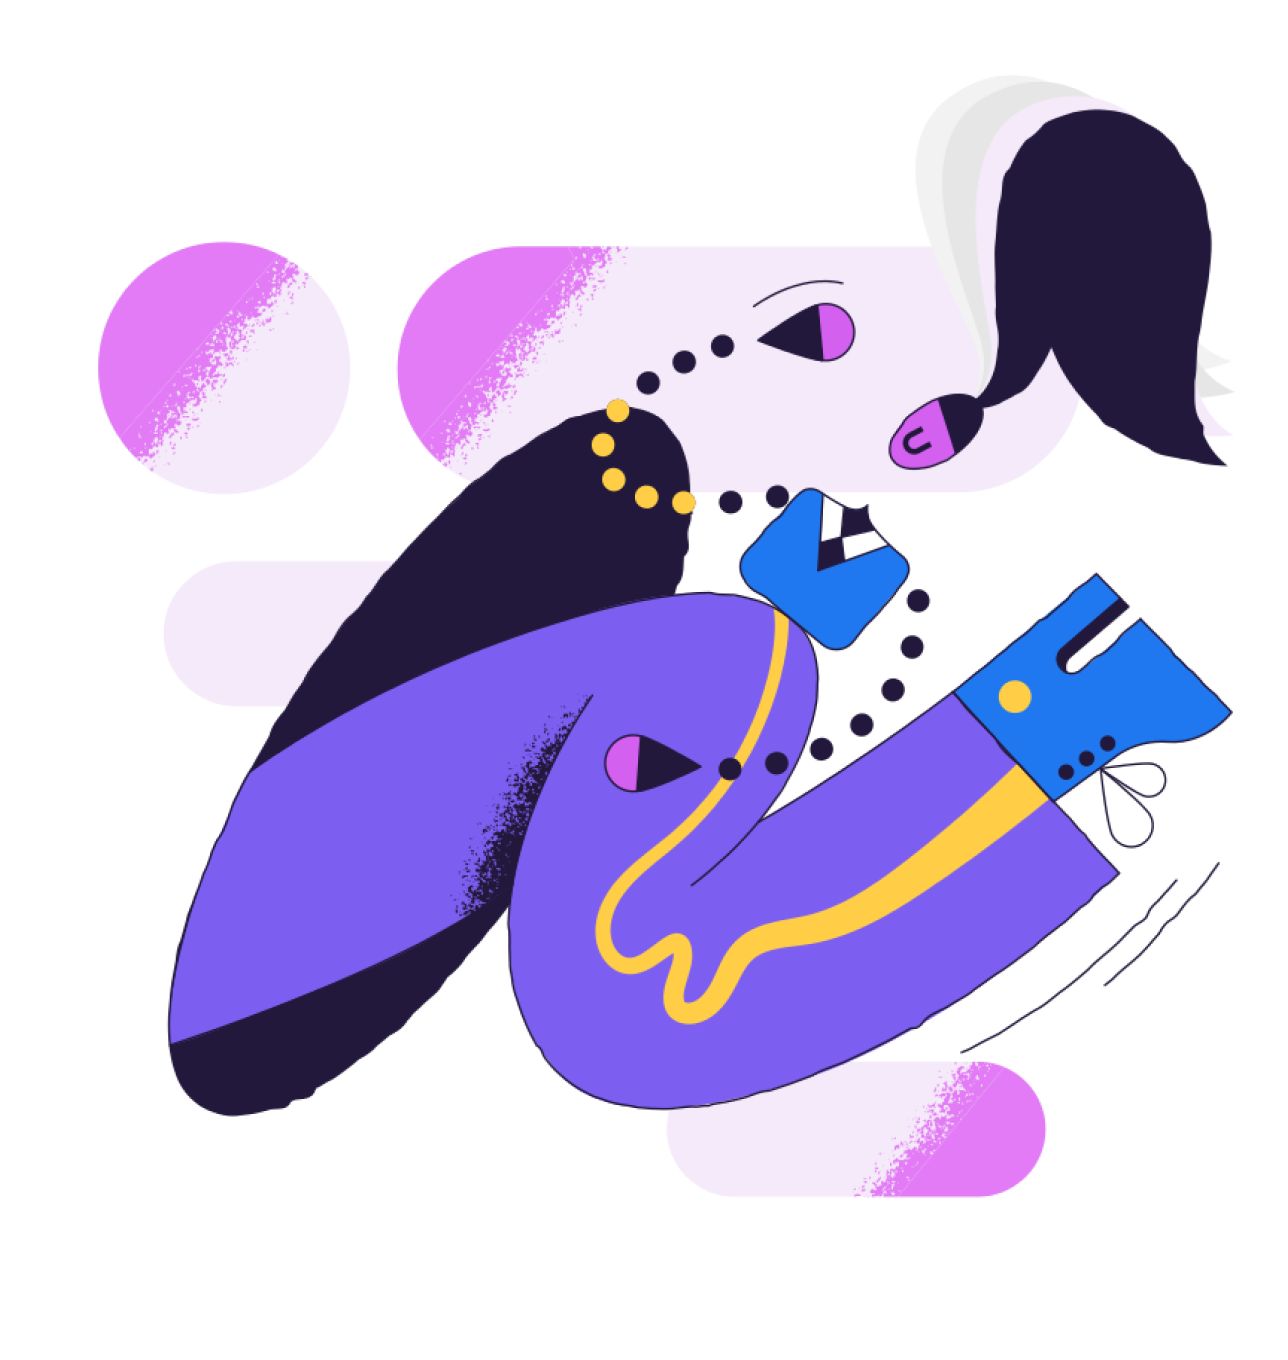
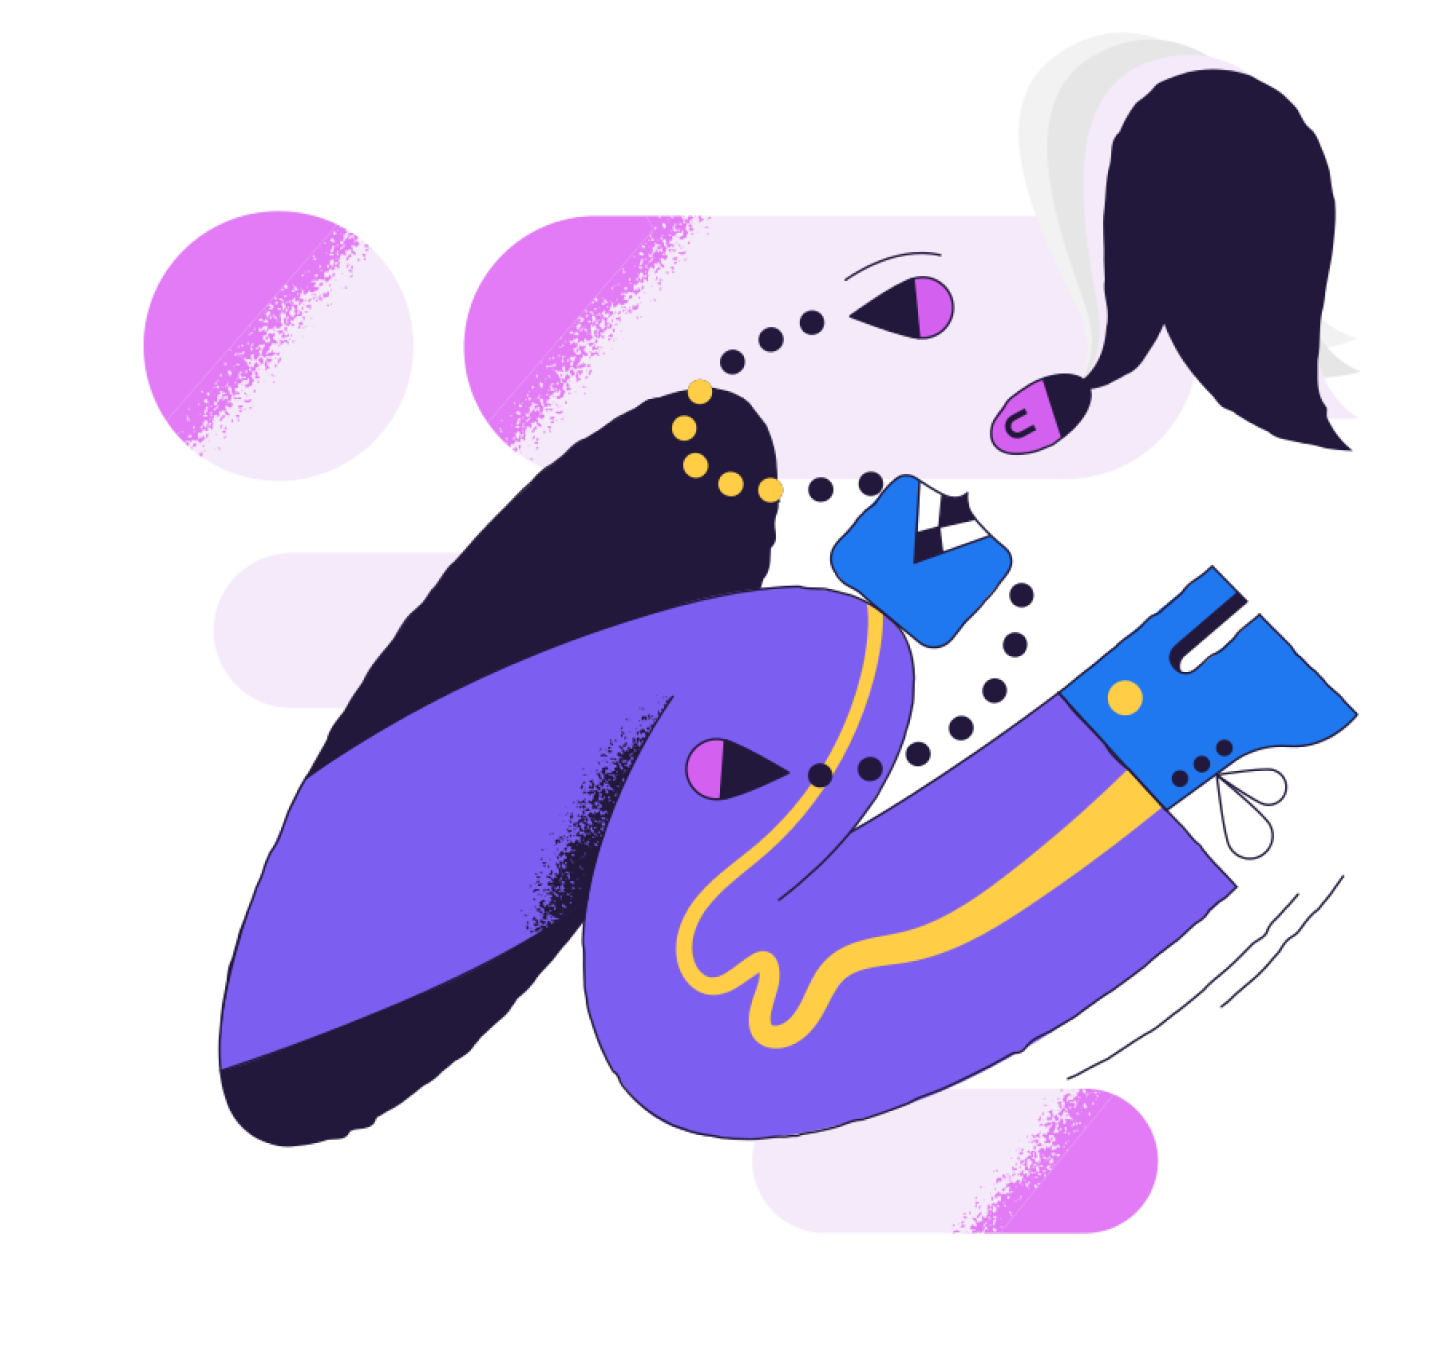
login css changes

diff --git a/SurveyWebsite/login.css b/SurveyWebsite/login.css
@@ -6,25 +6,25 @@ body {
 .logo 
 {
     position: absolute;
-    width: 159px;
+    width: 212px;
     height: 159px;
-    left: 14px;
+    left: 18.67px;
     top: 0px;
 }
 
 .abstract
 {
     position: absolute;
-    width: 644px;
+    width: 728px;
     height: 680px;
-    left: 38px;
+    left: 94px;
     top: 110px;
 }
 
 .confetti
 {
     position: absolute;
-    width: 720px;
+    width: 960px;
     height: 1024px;
     left: 0px;
     top: 0px;
@@ -33,9 +33,9 @@ body {
 .accessContent 
 {
     position: absolute;
-    width: 293px;
+    width: 390.67px;
     height: 108px;
-    left: 128px;
+    left: 170.67px;
     top: 790px;
 
     font-family: Poppins;
@@ -45,16 +45,15 @@ body {
     line-height: 54px;
 
     color: #FFFFFF;
-
 }
 
 .loginText 
 {
     position: absolute;
-    width: 143px;
+    width: 190.67px;
     height: 72px;
-    left: 826px;
-    top: 123px;
+    left: 1149px;
+    top: 110px;
 
     font-family: Poppins;
     font-style: normal;
@@ -63,16 +62,17 @@ body {
     line-height: 72px;
     /* identical to box height */
 
+
     color: #313131;
 }
 
 .noAccount
 {
     position: absolute;
-    width: 335px;
+    width: 446.67px;
     height: 27px;
-    left: 826px;
-    top: 208px;
+    left: 1149px;
+    top: 195px;
 
     font-family: Poppins;
     font-style: normal;
@@ -88,9 +88,9 @@ body {
 .white
 {
     position: absolute;
-    width: 720px;
+    width: 960px;
     height: 1024px;
-    left: 720px;
+    left: 960px;
     top: 0px;
 
     background: #FFFFFF;
@@ -99,9 +99,9 @@ body {
 .loginBtn
 {
     position: absolute;
-    width: 505px;
+    width: 579.7px;
     height: 67px;
-    left: 826px;
+    left: 1150.15px;
     top: 613px;
 
     background: #9767F5;
@@ -114,6 +114,7 @@ body {
     line-height: 36px;
     /* identical to box height */
 
+
     color: #FFFFFF;
     cursor:pointer;
 }
@@ -121,9 +122,9 @@ body {
 .googleBtn
 {
     position: absolute;
-    width: 506px;
+    width: 580.85px;
     height: 70px;
-    left: 825px;
+    left: 1149px;
     top: 828px;
 
     background: #FFFFFF;
@@ -139,7 +140,7 @@ body {
     position: absolute;
     width: 231px;
     height: 36px;
-    left: 162px;
+    left: 185.96px;
     top: 17px;
 
     font-family: Poppins;
@@ -147,14 +148,18 @@ body {
     font-weight: 500;
     font-size: 24px;
     line-height: 36px;
+    /* identical to box height */
+
+
+    color: #000000;
 }
 
 .googleLogo
 {
     position: absolute;
-    width: 38x;
-    height: 38px;
-    left: 100px;
+    width: 39x;
+    height: 39px;
+    left: 114.79px;
     top: 16px;
     z-index: 1;
 }
@@ -162,9 +167,9 @@ body {
 .emailText 
 {
     position: absolute;
-    width: 127px;
+    width: 145.79px;
     height: 33px;
-    left: 826px;
+    left: 1150.15px;
     top: 294px;
 
     font-family: Poppins;
@@ -179,9 +184,9 @@ body {
 .emailInput
 {
     position: absolute;
-    width: 506px;
+    width: 580.85px;
     height: 70px;
-    left: 826px;
+    left: 1150.15px;
     top: 327px;
 
     background: #FFFFFF;
@@ -193,9 +198,9 @@ body {
 .passwordText 
 {
     position: absolute;
-    width: 127px;
+    width: 145.79px;
     height: 33px;
-    left: 826px;
+    left: 1150.15px;
     top: 433px;
 
     font-family: Poppins;
@@ -205,14 +210,15 @@ body {
     line-height: 27px;
 
     color: #313131;
+
 }
 
 .passwordInput
 {
     position: absolute;
-    width: 506px;
+    width: 580.85px;
     height: 70px;
-    left: 826px;
+    left: 1150.15px;
     top: 466px;
 
     background: #FFFFFF;
@@ -224,9 +230,9 @@ body {
 .forgotPassword
 {
     position: absolute;
-    width: 205px;
+    width: 235.33px;
     height: 27px;
-    left: 1127px;
+    left: 1495.67px;
     top: 547px;
 
     font-family: Poppins;
@@ -243,18 +249,18 @@ body {
 .lines
 {
     position: absolute;
-    width: 505px;
+    width: 579.7px;
     height: 1px;
-    left: 826px;
+    left: 1150.15px;
     top: 750px;
 }
 
 .orText
 {
     position: absolute;
-    width: 19px;
+    width: 21.81px;
     height: 27px;
-    left: 1070px;
+    left: 1430.24px;
     top: 736px;
 
     font-family: Poppins;

diff --git a/SurveyWebsite/register.html b/SurveyWebsite/register.html
@@ -9,7 +9,10 @@
     <script src="https://www.gstatic.com/firebasejs/7.15.4/firebase-auth.js"></script>
     <script src="https://www.gstatic.com/firebasejs/7.15.4/firebase-database.js"></script>
     <script src="https://www.gstatic.com/firebasejs/7.15.4/firebase-analytics.js"></script>
-    <link rel="stylesheet" type="text/css" href="all.css" />
+    <link rel="preconnect" href="https://fonts.googleapis.com">
+    <link rel="preconnect" href="https://fonts.gstatic.com" crossorigin>
+    <link href="https://fonts.googleapis.com/css2?family=Poppins&display=swap" rel="stylesheet">
+    <link rel="stylesheet" type="text/css" href="register.css" />
 </head>
 <body>
 

diff --git a/SurveyWebsite/forgotPassword.html b/SurveyWebsite/forgotPassword.html
@@ -9,6 +9,9 @@
     <script src="https://www.gstatic.com/firebasejs/7.15.4/firebase-auth.js"></script>
     <script src="https://www.gstatic.com/firebasejs/7.15.4/firebase-database.js"></script>
     <script src="https://www.gstatic.com/firebasejs/7.15.4/firebase-analytics.js"></script>
+    <link rel="preconnect" href="https://fonts.googleapis.com">
+    <link rel="preconnect" href="https://fonts.gstatic.com" crossorigin>
+    <link href="https://fonts.googleapis.com/css2?family=Poppins&display=swap" rel="stylesheet">
     <link rel="stylesheet" type="text/css" href="all.css" />
 </head>
 <body>

diff --git a/SurveyWebsite/home.html b/SurveyWebsite/home.html
@@ -9,6 +9,9 @@
     <script src="https://www.gstatic.com/firebasejs/7.15.4/firebase-auth.js"></script>
     <script src="https://www.gstatic.com/firebasejs/7.15.4/firebase-database.js"></script>
     <script src="https://www.gstatic.com/firebasejs/7.15.4/firebase-analytics.js"></script>
+    <link rel="preconnect" href="https://fonts.googleapis.com">
+    <link rel="preconnect" href="https://fonts.gstatic.com" crossorigin>
+    <link href="https://fonts.googleapis.com/css2?family=Poppins&display=swap" rel="stylesheet">
     <link rel="stylesheet" type="text/css" href="all.css" />
 </head>
 <body>
